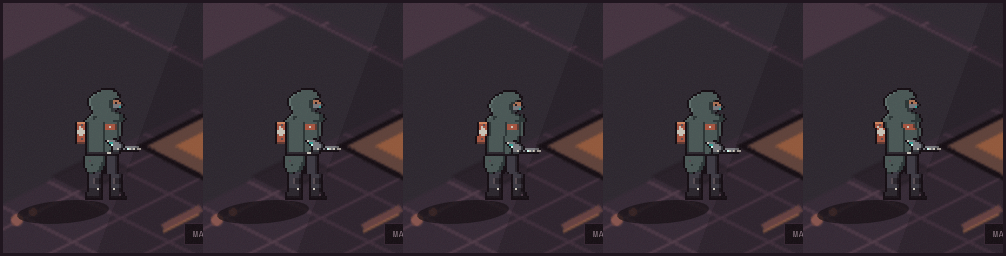
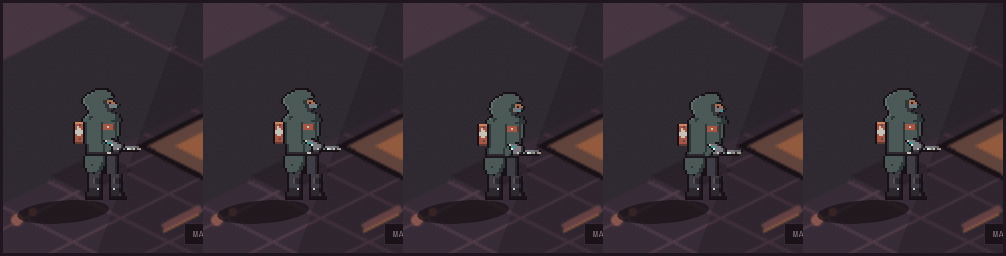
feat(webapp): make the idle act below the waist (fold iter-2 critique)
The iteration-2 cold critique closed the attack whole-body verdict but
flagged the idle as the one open item: an upper-body sway over planted,
symmetric legs. Add a knee-bend "settle" (crouch) and a low-pivot pelvis
sway to the idle keys and the programmatic idle, so the lower body breathes
too — the figure sinks onto a bent knee on the exhale and rises on the
inhale, feet planted. New crouch + leanPivot pose channels.

Refs: #74

diff --git a/apps/webapp/src/match-proto/pixel-control-lane/medic-rig.ts b/apps/webapp/src/match-proto/pixel-control-lane/medic-rig.ts
@@ -251,8 +251,14 @@ function drawSmear(rows: string[], reach: number, dy: number): string[] {
 interface Pose {
   /** Hip-pivot shear (whole-body lean). */
   lean: number;
-  /** Vertical bob (breath / crouch). */
+  /** Row the lean pivots about (default the hip). Lower it to sway the
+   * pelvis/thighs over planted feet — a weighted idle shift below the waist. */
+  leanPivot: number;
+  /** Vertical bob (breath) — shifts the whole figure, feet included. */
   bob: number;
+  /** Knee-bend settle: everything above the knee sinks by this many rows
+   * while the feet stay planted — a breath the lower body participates in. */
+  crouch: number;
   /** Chin tuck: hood + head region dips by this many rows. */
   headDip: number;
   /** Injector forearm offset. */
@@ -272,9 +278,12 @@ interface Pose {
 }
 
 const REST: Pose = {
-  lean: 0, bob: 0, headDip: 0, armDx: 0, armDy: 0,
+  lean: 0, leanPivot: HIP_Y, bob: 0, crouch: 0, headDip: 0, armDx: 0, armDy: 0,
   legDx: 0, legDy: 0, backLegDx: 0, needle: 0, flash: false, smear: 0,
 };
+
+/** Row below which the shins/feet stay planted during a knee-bend crouch. */
+const KNEE_Y = 50;
 
 /** Compose one pose into a finished 48×64 grid. */
 export function renderPose(partial: Partial<Pose>): string[] {
@@ -297,7 +306,8 @@ export function renderPose(partial: Partial<Pose>): string[] {
   if (p.needle > 0) { g = drawNeedle(g, p.needle, p.armDx, p.armDy); }
   if (p.smear > 0) { g = drawSmear(g, p.smear, p.armDy); }
   if (p.flash) { g = drawFlash(g, p.armDx, p.armDy); }
-  if (p.lean !== 0) { g = lean(g, HIP_Y, p.lean); }
+  if (p.lean !== 0) { g = lean(g, p.leanPivot, p.lean); }
+  if (p.crouch !== 0) { g = moveRegion(g, 0, 0, W - 1, KNEE_Y - 1, 0, p.crouch); }
   if (p.bob !== 0) { g = shiftY(g, p.bob); }
   return g;
 }
@@ -342,14 +352,15 @@ export const IDLE_CYCLE_MS = 1800;
 export const ATTACK_CYCLE_MS = 1100;
 
 const IDLE_KEYS: Partial<Pose>[] = [
-  // weight centred-forward, breath in
-  { lean: 0.03, headDip: 0, legDx: 0, backLegDx: 0 },
-  // settle onto the front foot, hood dips (breath out), weapon hand drifts
-  { lean: 0.06, headDip: 1, armDy: 1, legDx: 1 },
-  // hold the exhale
-  { lean: 0.03, headDip: 1, armDy: 1 },
-  // ease weight back onto the trailing foot (breath in) — arm returns to rest
-  { lean: -0.04, headDip: 0, backLegDx: -1 },
+  // weight over the trailing foot, tall (breath in). Low pivot so the sway
+  // carries the pelvis, not just the shoulders.
+  { lean: -0.05, leanPivot: 44, headDip: 0 },
+  // settle forward + sink onto a bent knee (breath out), hood dips, hand drifts
+  { lean: 0.05, leanPivot: 44, crouch: 1, headDip: 1, armDy: 1 },
+  // hold the exhale, weight fully forward, knee still bent
+  { lean: 0.07, leanPivot: 44, crouch: 1, headDip: 1, armDy: 1 },
+  // rise and ease weight back onto the trailing foot — arm returns to rest
+  { lean: -0.02, leanPivot: 44, headDip: 0 },
 ];
 const IDLE_KEY_MS = [520, 420, 420, 440];
 
@@ -389,10 +400,10 @@ function pushBackLeg(rows: string[], dx: number): string[] {
 function programmaticIdle(clockMs: number): RigFrame {
   const t = phase(clockMs, IDLE_CYCLE_MS);
   const wave = Math.sin(t * Math.PI * 2);
-  // whole-body weight shift (hip-pivot lean, snapped on-grid) + a hood/head
-  // chin-tuck on the exhale half of the loop. No sub-pixel — kept crisp.
-  let rows = lean(medicSide, HIP_Y, 0.045 * wave);
-  if (wave > 0.4) { rows = moveRegion(rows, 8, 6, 31, 18, 0, 1); }
+  // low-pivot weight shift (pelvis sways over the feet) + a knee-bend settle
+  // on the exhale, so the lower body breathes too. All snapped on-grid.
+  let rows = lean(medicSide, 44, 0.05 * wave);
+  if (wave > 0.3) { rows = moveRegion(rows, 0, 0, W - 1, KNEE_Y - 1, 0, 1); }
   return { rows, dx: 0, dy: 0 };
 }
 
@@ -433,6 +444,8 @@ function tween(a: Partial<Pose>, b: Partial<Pose>, u: number, extra?: Partial<Po
   const pb: Pose = { ...REST, ...b };
   return renderPose({
     lean: lerp(pa.lean, pb.lean, u),
+    leanPivot: Math.round(lerp(pa.leanPivot, pb.leanPivot, u)),
+    crouch: Math.round(lerp(pa.crouch, pb.crouch, u)),
     bob: Math.round(lerp(pa.bob, pb.bob, u)),
     headDip: Math.round(lerp(pa.headDip, pb.headDip, u)),
     armDx: Math.round(lerp(pa.armDx, pb.armDx, u)),
